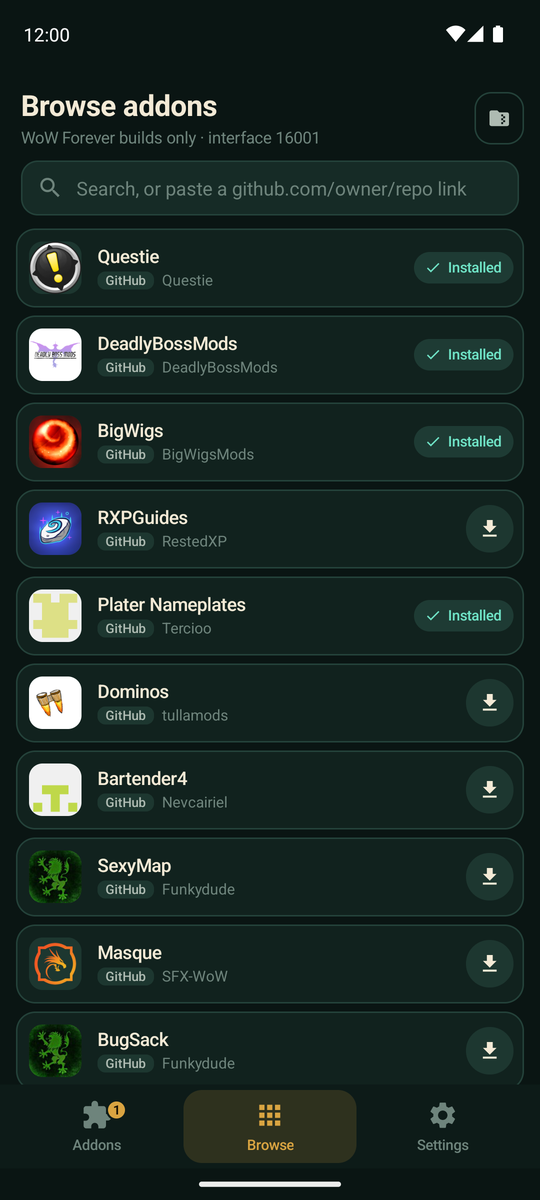
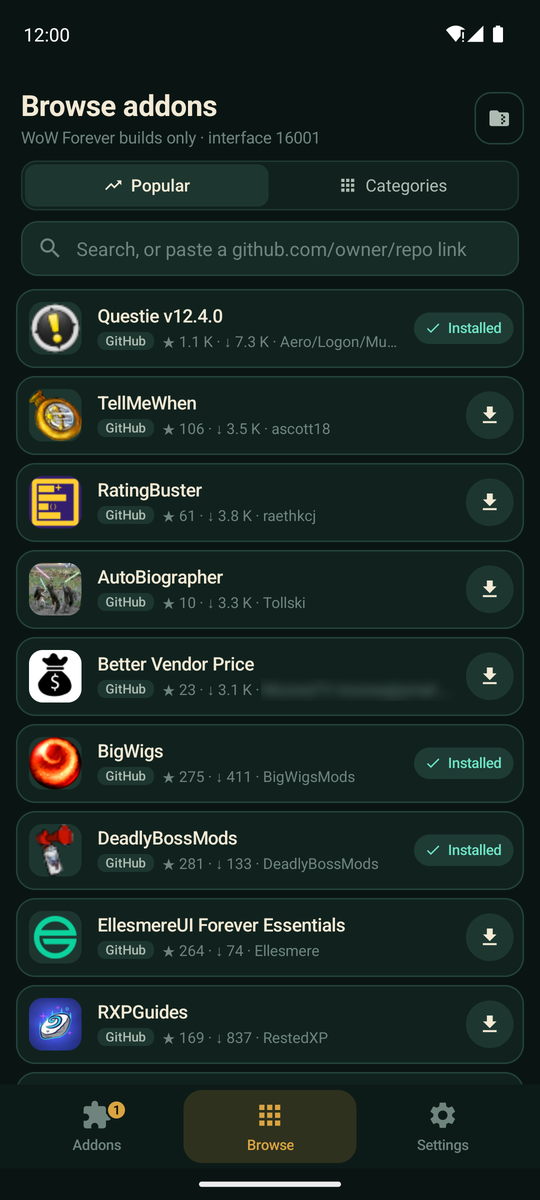
Browse: empty-category text, keep the mode over a language change, reshoot README screenshots (#69)
* Browse: empty-category text, keep the mode over a language change

Claude-Session: https://claude.ai/code/session_01HDZ3VZ2FYdj23DuXbprfvL

* Reshoot README Browse screenshots with the Categories switch

Browse in Popular mode (landscape 16:9 and portrait) now shows the
Popular / Categories switch, and a new shot shows the category grid.
The "More screenshots" table gets a Categories column.

Refs #63

---------

diff --git a/src/app/wowforever/addons/BrowseScreen.java b/src/app/wowforever/addons/BrowseScreen.java
@@ -39,6 +39,19 @@ final class BrowseScreen extends Screen {
 
     BrowseScreen(MainActivity app) { super(app); }
 
+    /** Keeps the mode, category and query over a recreate (a language change). */
+    void save(android.os.Bundle out) {
+        out.putBoolean("browseCategories", categoriesMode);
+        out.putString("browseCategory", category);
+        out.putString("browseQuery", query);
+    }
+
+    void restore(android.os.Bundle in) {
+        categoriesMode = in.getBoolean("browseCategories", false);
+        category = in.getString("browseCategory");
+        query = in.getString("browseQuery", "");
+    }
+
     /** Below this list width the row actions drop their labels. */
     private static final int ROW_LABELS_DP = 480;
 
@@ -292,7 +305,8 @@ final class BrowseScreen extends Screen {
                 app.bodyBox.addView(emptyState(R.drawable.ic_warning, s(R.string.load_failed), resultError,
                         Ui.button(app, s(R.string.action_retry), R.drawable.ic_refresh, Ui.Kind.PRIMARY, v -> runSearch(false))));
             } else {
-                app.bodyBox.addView(emptyState(R.drawable.ic_search, s(R.string.nothing_found), s(R.string.github_empty_text), new View[0]));
+                app.bodyBox.addView(emptyState(R.drawable.ic_search, s(R.string.nothing_found),
+                        s(categoriesMode && category != null ? R.string.category_empty_text : R.string.github_empty_text), new View[0]));
             }
             return;
         }

diff --git a/src/app/wowforever/addons/MainActivity.java b/src/app/wowforever/addons/MainActivity.java
@@ -114,7 +114,7 @@ public class MainActivity extends Activity {
         ImageLoader.dir = new File(getCacheDir(), "img");
         ImageLoader.dir.mkdirs();
         store = Store.get(this);
-        if (b != null) tab = b.getInt("tab", tab);
+        if (b != null) { tab = b.getInt("tab", tab); browse.restore(b); }
         if (store.gameRoot() == null && hasStorageAccess()) gameFolder.autoDetect(false);
         store.load();
         buildShell();
@@ -133,6 +133,7 @@ public class MainActivity extends Activity {
     @Override protected void onSaveInstanceState(Bundle out) {
         super.onSaveInstanceState(out);
         out.putInt("tab", tab);   // a language change recreates the activity on the settings tab
+        browse.save(out);
     }
 
     private Boolean lastAccess;

diff --git a/README.md b/README.md
@@ -37,9 +37,9 @@ Installing addons on a phone usually means zip files, file managers and long fol
 <details>
 <summary><b>More screenshots</b></summary>
 
-| Browse | Addon details | Your addons |
-| --- | --- | --- |
-| <img src="docs/images/promo/shot-browse.png" alt="Browse" width="280"> | <img src="docs/images/promo/shot-detail.png" alt="Addon details" width="280"> | <img src="docs/images/promo/shot-library.png" alt="Installed addons with an update" width="280"> |
+| Browse | Categories | Addon details | Your addons |
+| --- | --- | --- | --- |
+| <img src="docs/images/promo/shot-browse.png" alt="Browse, popular addons" width="220"> | <img src="docs/images/promo/shot-categories.png" alt="Browse by category" width="220"> | <img src="docs/images/promo/shot-detail.png" alt="Addon details" width="220"> | <img src="docs/images/promo/shot-library.png" alt="Installed addons with an update" width="220"> |
 
 | Browse, portrait | Auto-update |
 | --- | --- |
